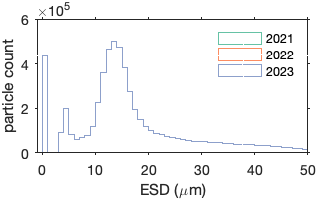
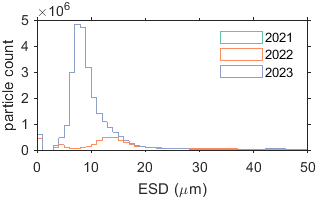
new figure for ESD

diff --git a/NOAA/BuddInlet/plot_histogram_BI.m b/NOAA/BuddInlet/plot_histogram_BI.m
@@ -32,14 +32,14 @@ idx=find(dt.Month==1 | dt.Month==2 | dt.Month==3 | dt.Month==10 | dt.Month==11 |
 E3=ESD;
 clearvars runtype filecomment dt idx matdate ESD
 
-% plotting
+%% plotting
 c=brewermap(3,'Set2'); 
 
 figure('Units','inches','Position',[1 1 3.5 2],'PaperPositionMode','auto');
     histogram(cell2mat(E2),0:1:70,'DisplayStyle','stairs','edgecolor',c(1,:)); hold on
     histogram(cell2mat(E2),0:1:70,'DisplayStyle','stairs','edgecolor',c(2,:)); hold on
-    histogram(cell2mat(E2),0:1:70,'DisplayStyle','stairs','edgecolor',c(3,:)); hold on
-    set(gca,'ylim',[0 6*10^5],'xlim',[-1 50],'fontsize',10,'tickdir','out');
+    histogram(cell2mat(E3),0:1:70,'DisplayStyle','stairs','edgecolor',c(3,:)); hold on
+    set(gca,'xlim',[0 50],'fontsize',10,'tickdir','out');
     ylabel('particle count','fontsize',11)
     xlabel('ESD (\mum)')    
     legend('2021','2022','2023'); legend boxoff;

diff --git a/IFCB-Tools/summarize_data/summarize_biovol_eqdiam_from_features_v2.m b/IFCB-Tools/summarize_data/summarize_biovol_eqdiam_from_features_v2.m
@@ -6,7 +6,7 @@ function [ ] = summarize_biovol_eqdiam_from_features(out_dir,roibasepath,feapath
 %
 %% Example inputs
 clear;
-yr='2023';
+yr='2021';
 out_dir = 'C:\Users\ifcbuser\Documents\GitHub\bloom-baby-bloom\IFCB-Data\BuddInlet\';
 roibasepath = 'F:\BuddInlet\data\'; %Where you raw data is
 feapath_base = ['F:\BuddInlet\features\' yr '\']; %Put in your featurepath byyear
